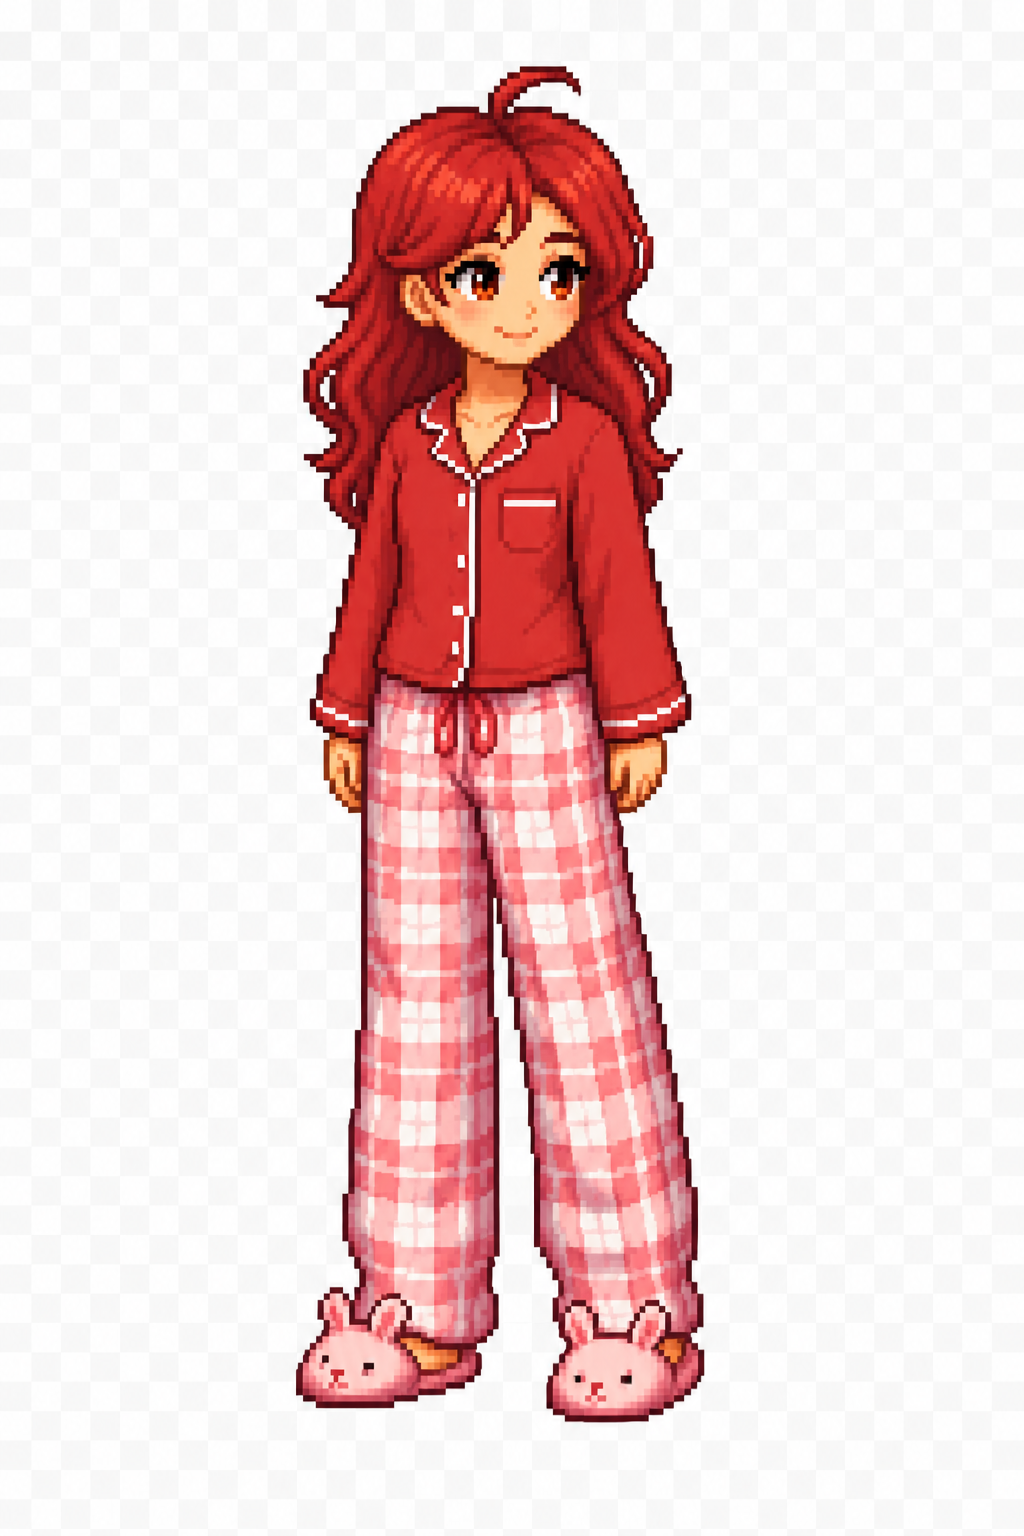
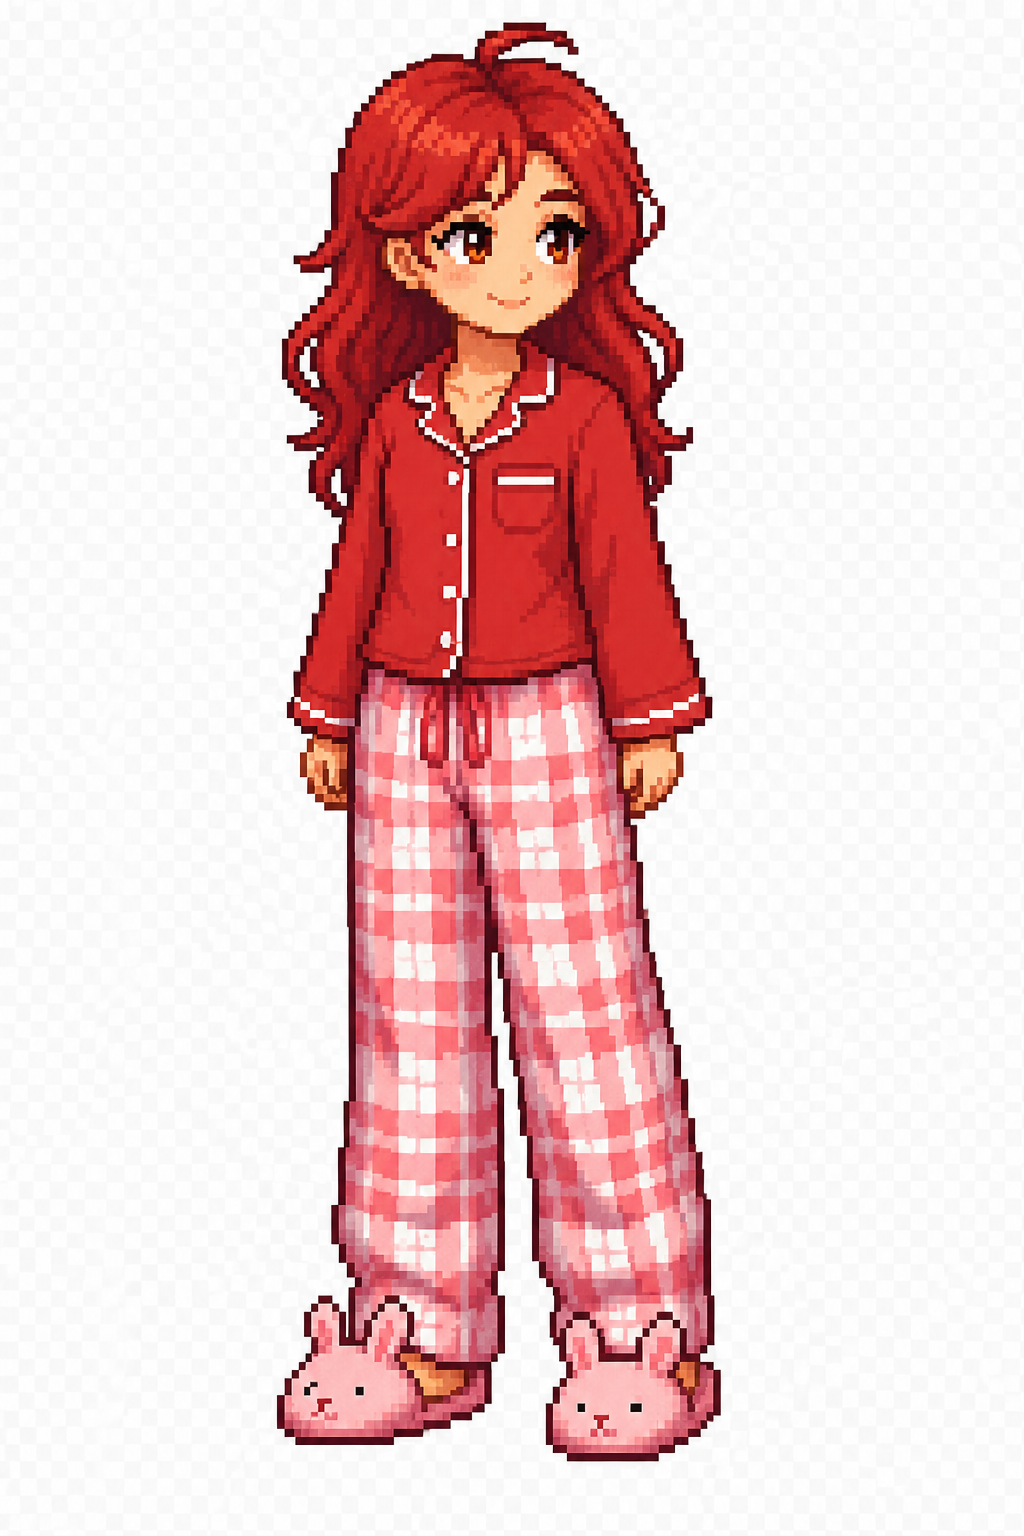
Background removed from character

Changed region(s): [[0.25, 0.0, 0.7188, 0.9688]]

diff --git a/App/src/Texture.cpp b/App/src/Texture.cpp
@@ -2,6 +2,104 @@
 
 #include <SDL2/SDL_image.h>
 #include <iostream>
+#include <queue>
+#include <vector>
+#include <cmath>
+
+// Gets a pixel from a surface that has already been converted to RGBA32.
+static Uint32 getPixel(SDL_Surface* surface, int x, int y) {
+    Uint8* row = static_cast<Uint8*>(surface->pixels) + y * surface->pitch;
+    Uint32* pixels = reinterpret_cast<Uint32*>(row);
+    return pixels[x];
+}
+
+// Sets a pixel on a surface that has already been converted to RGBA32.
+static void setPixel(SDL_Surface* surface, int x, int y, Uint32 value) {
+    Uint8* row = static_cast<Uint8*>(surface->pixels) + y * surface->pitch;
+    Uint32* pixels = reinterpret_cast<Uint32*>(row);
+    pixels[x] = value;
+}
+
+// Determines whether a pixel looks like the unwanted background.
+// This targets light gray / white background pixels like the ones
+// that keep showing around your pajama sprite.
+static bool isBackgroundPixel(SDL_PixelFormat* format, Uint32 pixel) {
+    Uint8 r, g, b, a;
+    SDL_GetRGBA(pixel, format, &r, &g, &b, &a);
+
+    // Already transparent is definitely background.
+    if (a == 0) {
+        return true;
+    }
+
+    // Near-white / near-light-gray background detection.
+    // This is designed to match the kind of flat light background
+    // your sprite keeps arriving with.
+    bool brightEnough = (r >= 235 && g >= 235 && b >= 235);
+    bool lowColorDifference =
+        (std::abs((int)r - (int)g) <= 10) &&
+        (std::abs((int)g - (int)b) <= 10) &&
+        (std::abs((int)r - (int)b) <= 10);
+
+    return brightEnough && lowColorDifference;
+}
+
+// Flood-fills from the outer edges only, turning the detected
+// background transparent. This is safer than deleting every white pixel
+// because it only removes the connected outside background.
+static void removeConnectedBackground(SDL_Surface* surface) {
+    const int width = surface->w;
+    const int height = surface->h;
+
+    std::vector<bool> visited(width * height, false);
+    std::queue<std::pair<int, int>> q;
+
+    auto pushIfValid = [&](int x, int y) {
+        if (x < 0 || x >= width || y < 0 || y >= height) {
+            return;
+        }
+
+        int index = y * width + x;
+        if (visited[index]) {
+            return;
+        }
+
+        Uint32 pixel = getPixel(surface, x, y);
+        if (!isBackgroundPixel(surface->format, pixel)) {
+            return;
+        }
+
+        visited[index] = true;
+        q.push({x, y});
+    };
+
+    // Start from all border pixels.
+    for (int x = 0; x < width; x++) {
+        pushIfValid(x, 0);
+        pushIfValid(x, height - 1);
+    }
+
+    for (int y = 0; y < height; y++) {
+        pushIfValid(0, y);
+        pushIfValid(width - 1, y);
+    }
+
+    while (!q.empty()) {
+        auto [x, y] = q.front();
+        q.pop();
+
+        Uint8 r, g, b, a;
+        SDL_GetRGBA(getPixel(surface, x, y), surface->format, &r, &g, &b, &a);
+
+        // Make this background pixel transparent.
+        setPixel(surface, x, y, SDL_MapRGBA(surface->format, r, g, b, 0));
+
+        pushIfValid(x + 1, y);
+        pushIfValid(x - 1, y);
+        pushIfValid(x, y + 1);
+        pushIfValid(x, y - 1);
+    }
+}
 
 Texture::Texture()
     : texture(nullptr),
@@ -24,19 +122,40 @@ bool Texture::loadFromFile(SDL_Renderer* renderer, const std::string& filePath) 
         return false;
     }
 
-    SDL_Texture* newTexture = SDL_CreateTextureFromSurface(renderer, loadedSurface);
+    // Convert to RGBA32 so alpha handling is consistent.
+    SDL_Surface* formattedSurface = SDL_ConvertSurfaceFormat(
+        loadedSurface,
+        SDL_PIXELFORMAT_RGBA32,
+        0
+    );
+
+    SDL_FreeSurface(loadedSurface);
+
+    if (formattedSurface == nullptr) {
+        std::cerr << "Could not convert image format: " << filePath << "\n";
+        std::cerr << "SDL Error: " << SDL_GetError() << "\n";
+        return false;
+    }
+
+    // Remove only the connected light background.
+    removeConnectedBackground(formattedSurface);
+
+    SDL_Texture* newTexture = SDL_CreateTextureFromSurface(renderer, formattedSurface);
 
     if (newTexture == nullptr) {
         std::cerr << "Could not create texture from image: " << filePath << "\n";
         std::cerr << "SDL_CreateTextureFromSurface Error: " << SDL_GetError() << "\n";
-        SDL_FreeSurface(loadedSurface);
+        SDL_FreeSurface(formattedSurface);
         return false;
     }
 
-    imageWidth = loadedSurface->w;
-    imageHeight = loadedSurface->h;
+    // This is critical for real transparency to display correctly.
+    SDL_SetTextureBlendMode(newTexture, SDL_BLENDMODE_BLEND);
 
-    SDL_FreeSurface(loadedSurface);
+    imageWidth = formattedSurface->w;
+    imageHeight = formattedSurface->h;
+
+    SDL_FreeSurface(formattedSurface);
 
     texture = newTexture;
     return true;
@@ -47,13 +166,7 @@ void Texture::render(SDL_Renderer* renderer, int x, int y, int width, int height
         return;
     }
 
-    SDL_Rect destinationRect = {
-        x,
-        y,
-        width,
-        height
-    };
-
+    SDL_Rect destinationRect = { x, y, width, height };
     SDL_RenderCopy(renderer, texture, nullptr, &destinationRect);
 }
 

diff --git a/App/src/Player.cpp b/App/src/Player.cpp
@@ -3,8 +3,8 @@
 Player::Player()
     : x(100.0f),
       y(0.0f),
-      width(120),
-      height(180),
+      width(250),
+      height(300),
       velocityX(0.0f),
       velocityY(0.0f),
       movingLeft(false),